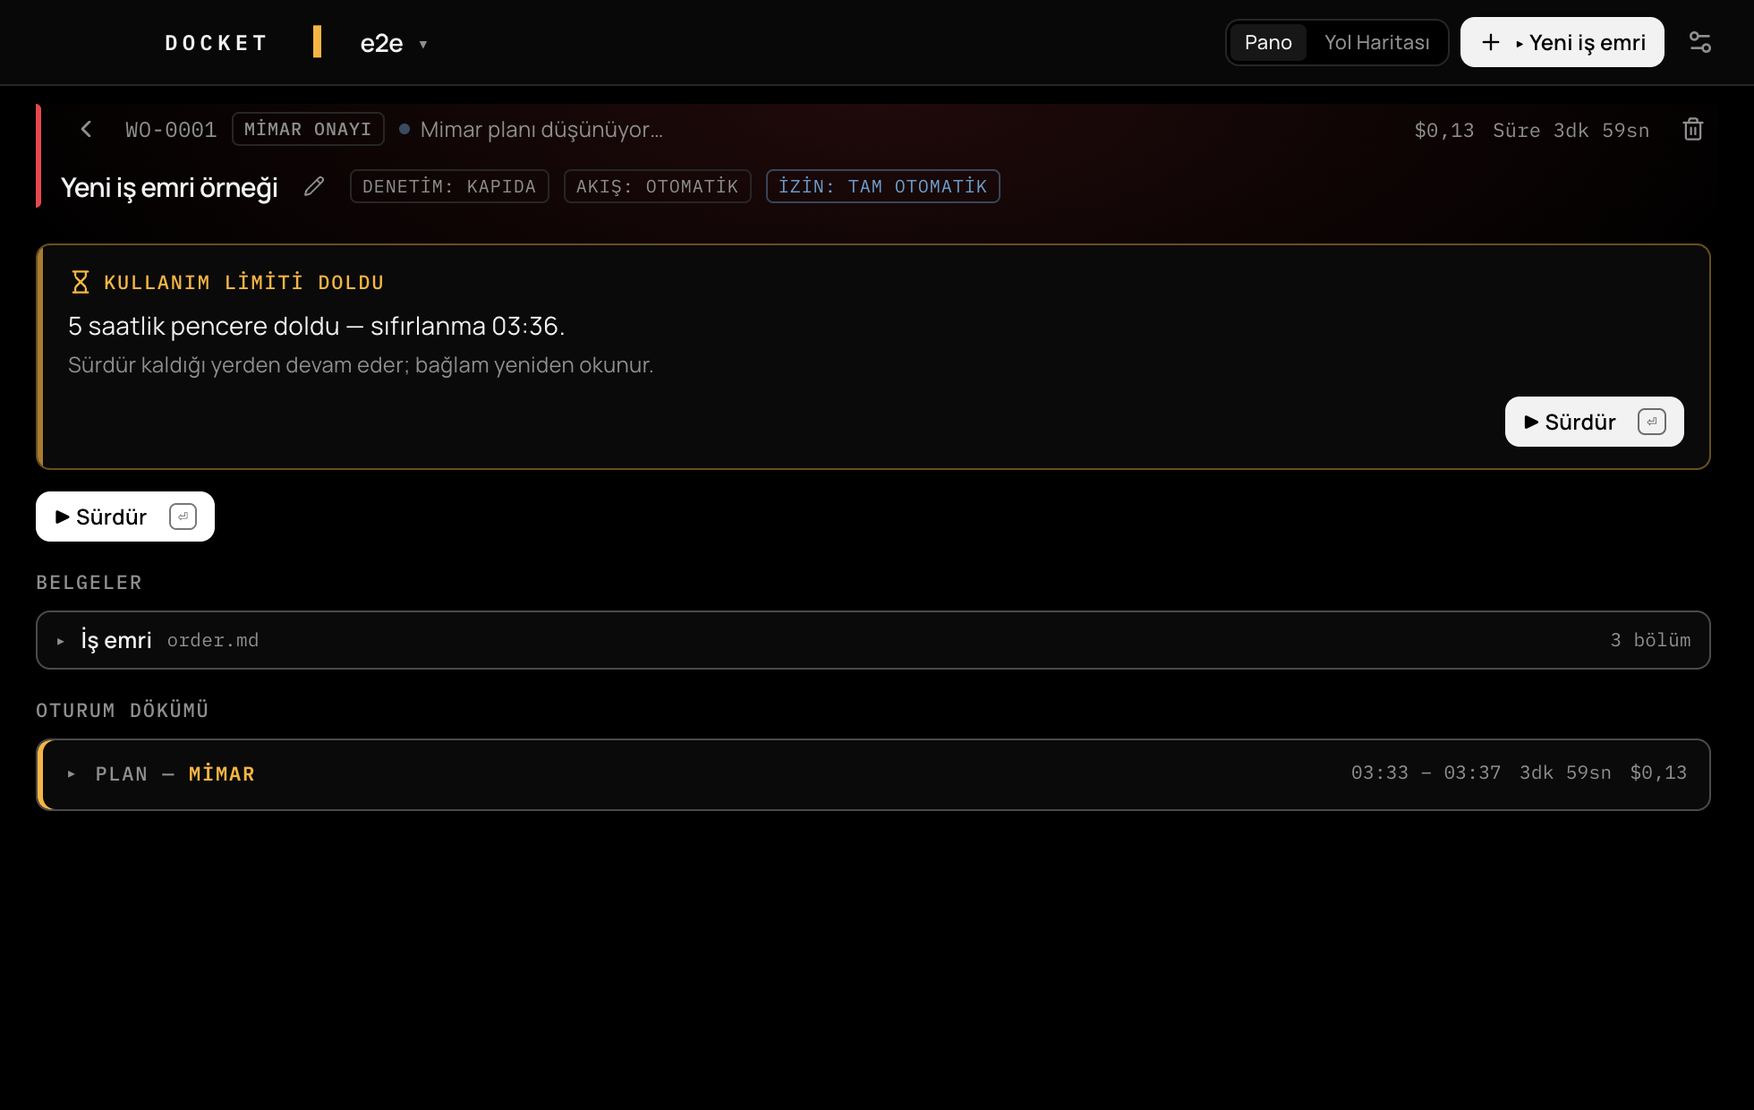
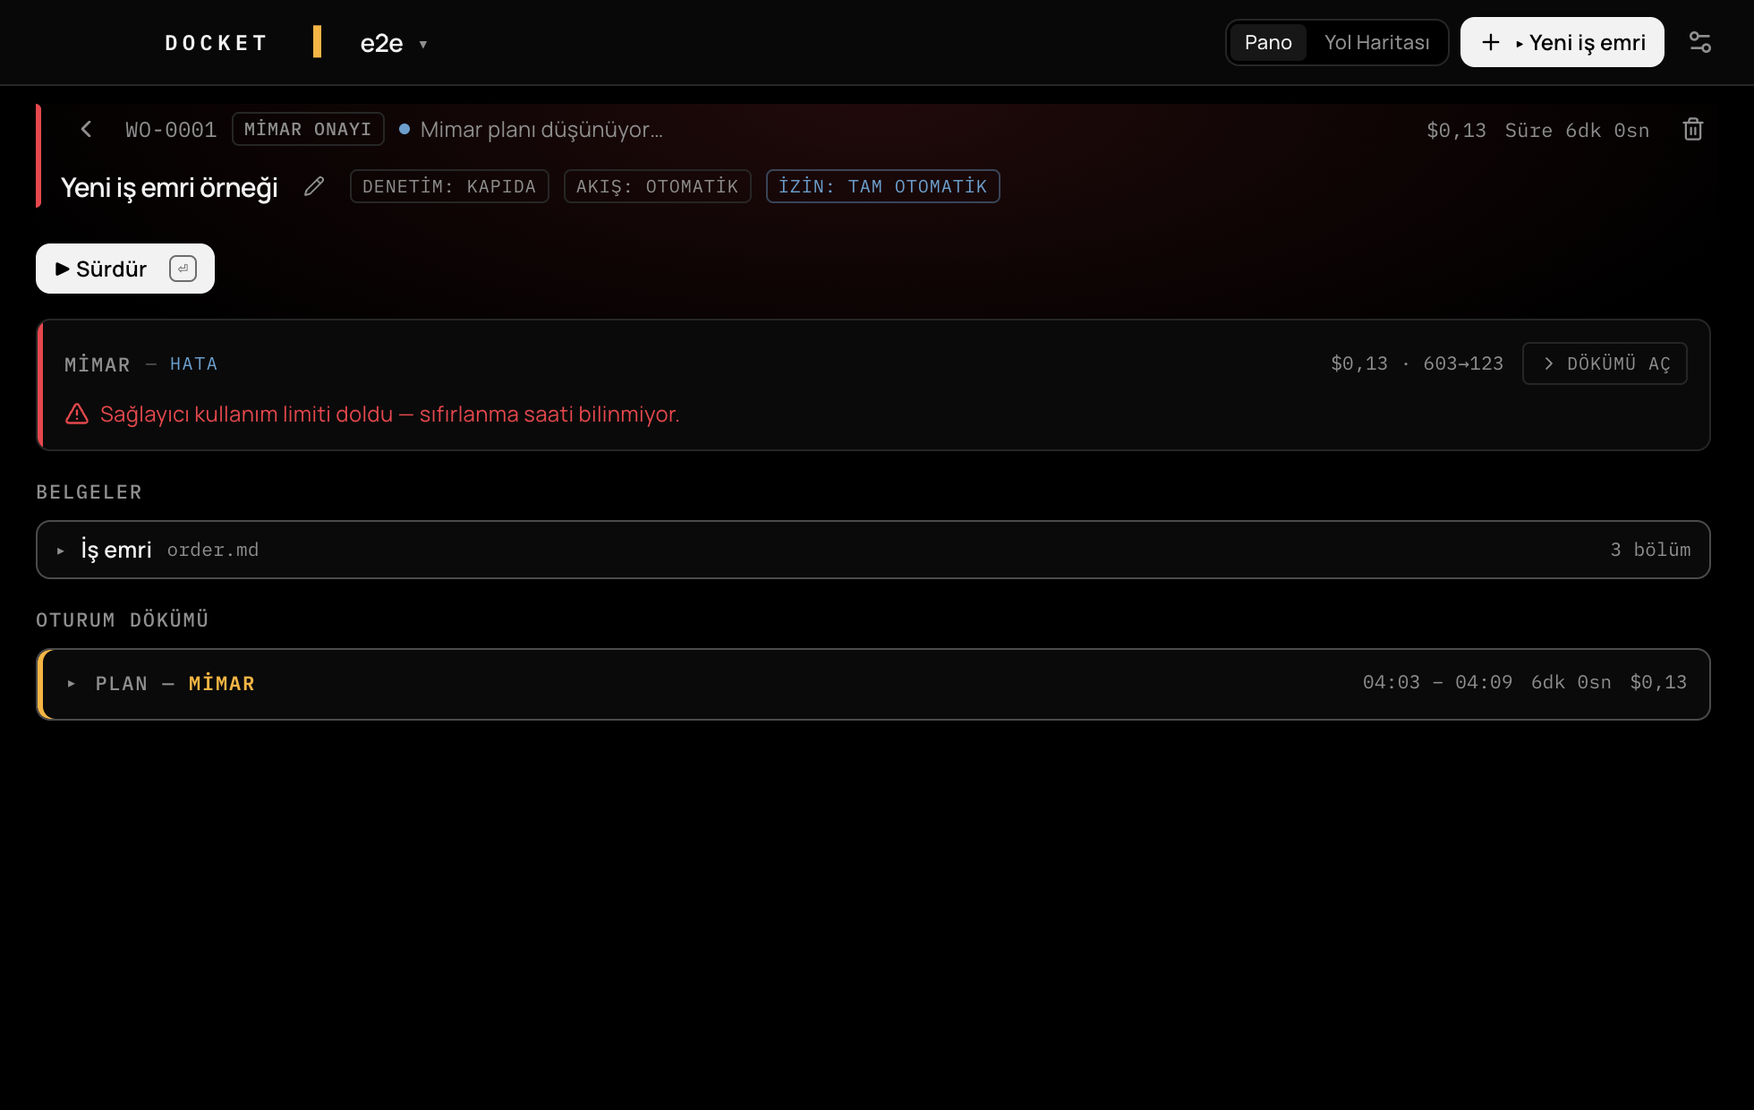
feat(WO-0053): operator round 2 — the card goes informative; the ONE Sürdür locks in its home
«kartta sürdür butonu olmasın — 2 tane buton oluyor»: the realized tour showed
the card's «Sürdür» beside the plan stage's lone «Sürdür» (the persisted
architect session's honest label). The revision: LimitCard loses its action
row entirely and renders only while the stamp is FUTURE (the crossing
unmounts it); the ONE «Sürdür» stays in its normal home, LOCKED while the
limit holds (the kit's attribute-free lock — ADR-0001's guarded-action
register; the card above carries the reason, no tooltip) with ⏎ held off;
the clock crossing unlocks it — kart gider, Sürdür düğmesi gelir. The board
card gains the standing line (limit_stopped in deriveCardReason — clock-free
by design, a clean leg clears the stamp and the reason reverts), the
round-2 ask for a surface outside the detail. The e2e family restructures
around the state machine (a future-stamped death genuinely blocks entry —
the design working as intended): spec 01 now WATCHES the live 9s tick cross
a short stamp (the real-time crossing, previously unpinned) and ends on the
stopped boundary; spec 03 ends its drive CLEAN (the running gate drops the
warn line + the clean leg clears the row) then pins the stamp-less degrade
tier's localized title; the draft seat mirrors the wait-only card (its
button-free form rides the draft's own re-drive paths). order.md rulings
carry the dated round-2 revision. 842 tests, ladder + E2E green.

diff --git a/src/ui/components/detail/WorkOrderDetail.tsx b/src/ui/components/detail/WorkOrderDetail.tsx
@@ -618,14 +618,21 @@ export function WorkOrderDetail({
   // DELIVERED its plan and is awaiting the operator — that is the approval moment, not work
   // (the SDK stream lingers waiting for an in-session approval Docket never gives).
   const planAwaitingOperator = planStage && state.status === 'plan_ready';
-  // WO-0053 (review findings 1-3): the limit surfaces branch on their OWN discriminators, never
-  // the derived turn — the primary real death is a RESULT message (error then turn_complete),
-  // which folds 'done', so a turn-gated card/⏎ would never fire on the real path. A stamped stop
-  // opens the LimitCard; a stamp-less one DEGRADES to the fail card's localized title (mockup
-  // frame 04). Neither renders over the operator's own Durdur (the seed boundary, mirrored live:
-  // `interrupted` folds 'stopped' and leaves the stamp in place).
+  // WO-0053 (review findings 1-3 + operator round 2, 2026-08-29): the limit surfaces branch on
+  // their OWN discriminators, never the derived turn — the primary real death is a RESULT message
+  // (error then turn_complete), which folds 'done', so a turn-gated card/⏎ would never fire on the
+  // real path. A stamped stop opens the INFORMATIVE LimitCard while the stamp is FUTURE only (the
+  // operator's round-2 ruling: the card carries NO button — the ONE Sürdür lives in its normal
+  // home beside it, locked while the limit holds; the clock crossing unmounts the card and
+  // unlocks the button — «kart gider, Sürdür düğmesi gelir»); a stamp-less one DEGRADES to the
+  // fail card's localized title (mockup frame 04). Neither renders over the operator's own Durdur
+  // (the seed boundary, mirrored live: `interrupted` folds 'stopped' and keeps the stamp).
   const limitCardOpen =
-    state.lastLimit !== undefined && !running && state.status !== 'stopped' && state.lastRefusal === undefined;
+    state.lastLimit !== undefined
+    && !running
+    && state.status !== 'stopped'
+    && state.lastRefusal === undefined
+    && limitCrossing(state.lastLimit.resetAt, now) === 'wait';
   const limitDegrade =
     state.lastErrorCode === 'rate_limited' && state.lastLimit === undefined && !running && state.status !== 'stopped' && state.lastRefusal === undefined;
   let primary: (() => void) | undefined;
@@ -642,14 +649,6 @@ export function WorkOrderDetail({
         primary = () => objectPlan(objectionText.trim());
         primaryKind = 'object';
       }
-    } else if (limitCardOpen && limitCrossing(state.lastLimit!.resetAt, now) === 'ready') {
-      // WO-0053 (review finding 1): the limit card's «Sürdür» owns ⏎ gated by the CARD's own
-      // condition, never the derived turn — the primary real death is a RESULT message (error then
-      // turn_complete), which folds 'done', not 'error': a turn-gated branch would strand the
-      // badge on a dead Enter. The same retry channel (the row-resume leg); a pending refusal
-      // outranks (the fresher intent — the raise card's input carries Enter).
-      primary = retry;
-      primaryKind = 'retry';
     } else if ((turn === 'retry' || limitDegrade) && !state.lastRefusal && state.lastLimit === undefined) {
       primary = retry; // ⏎ = Yeniden dene — the fail card's button (incl. the stamp-less degrade tier)
       primaryKind = 'retry';
@@ -676,10 +675,10 @@ export function WorkOrderDetail({
     } else if (stoppedNow) {
       primary = resumeStopped; // ⏎ = ▶ Sürdür — the stopped drive's OWN session (WO-0045 finding 2)
       primaryKind = 'resume';
-    } else if (planStage && !effectivePlan && !showQuestion) {
-      primary = requestPlan; // ⏎ = Plan iste (the decision row's lone button)
+    } else if (planStage && !effectivePlan && !showQuestion && !limitCardOpen) {
+      primary = requestPlan; // ⏎ = Plan iste / Sürdür (the decision row's lone button)
       primaryKind = 'request';
-    } else if (stepResumeId !== undefined) {
+    } else if (stepResumeId !== undefined && !limitCardOpen) {
       primary = resumeStep; // an interrupted 'active' step at restart
       primaryKind = 'resume';
     }
@@ -937,22 +936,12 @@ export function WorkOrderDetail({
       />
     ) : null;
 
-  // WO-0053 — the limit stop's ONE-ACTION card: the fold's `lastLimit` is the discriminator (the
-  // `lastRefusal` pattern). It renders only when the refusal card does NOT (a budget refusal is
-  // the fresher intent in the both-set case — a post-limit Sürdür that met the cap resolves the
-  // cap first; the limit state survives the fold and its card returns), and never over the
-  // operator's own stop (`limitCardOpen` above — finding 3's live mirror of the seed boundary).
-  // The button rides the FAIL CARD's retry channel: `drive-store.restart` is rejected for this
-  // (it re-issues the ORIGINAL input — a fresh session, wrong for a stopped live leg); retry
-  // finds the persisted row's providerSessionId and re-drives with `resume:`, the Sürdür
-  // mechanism verbatim.
+  // WO-0053 — the limit stop's INFORMATIVE card (round 2: no action row — the ONE Sürdür lives
+  // beside it, locked). It renders only when the refusal card does NOT (a budget refusal is the
+  // fresher intent in the both-set case), never over the operator's own stop, and only while the
+  // stamp is FUTURE (the crossing unmounts it — the Sürdür takes over alone).
   const limitCard = limitCardOpen && refusalCard === null ? (
-    <LimitCard
-      resetAt={state.lastLimit!.resetAt}
-      windowKind={state.lastLimit!.window}
-      now={now}
-      onResume={retry}
-    />
+    <LimitCard resetAt={state.lastLimit!.resetAt} windowKind={state.lastLimit!.window} />
   ) : null;
   const limitOpen = limitCard !== null;
 
@@ -1061,9 +1050,13 @@ export function WorkOrderDetail({
                 {planHint ? <p className="min-w-0 flex-1 truncate text-[12px] text-inkdim">{planHint}</p> : null}
               </>
             ) : (
-              <Button variant="primary" size="sm" className="min-w-[92px]" onClick={requestPlan}>
+              // WO-0053 operator round 2: while the limit holds, the ONE Sürdür renders in place,
+              // LOCKED (the kit's attribute-free lock — ADR-0001's guarded-action register; the
+              // limit card right above carries the reason, no tooltip needed) and holds the ⏎
+              // badge off. The clock crossing unmounts the card and unlocks this button.
+              <Button variant="primary" size="sm" className="min-w-[92px]" locked={limitCardOpen} onClick={requestPlan}>
                 {planResumeId ? UI.driveResume : UI.requestPlan}
-                <EnterMark />
+                {limitCardOpen ? null : <EnterMark />}
               </Button>
             )}
           </div>

diff --git a/src/ui/components/detail/LimitCard.tsx b/src/ui/components/detail/LimitCard.tsx
@@ -1,38 +1,17 @@
-// LimitCard (WO-0053) — the usage-limit stop's ONE-ACTION resolution, the BudgetRefusalCard's
-// sibling grammar (lamp-edged card, readout title, body, right-aligned action row) with the
-// refusal's two choices reduced to ONE: there is nothing to decide — the window either has not
-// opened (the Sürdür is ABSENT with the clock as its standing reason line, ADR-0001) or it has
-// (exactly one primary «Sürdür», ⏎'s target — the fail card's retry precedent, regularized by
-// ADR-0013's WO-0053 addendum). The card speaks PROVIDER windows only — no $ figures, no cap
-// copy (the budget card owns those, WO-0047); the body names the window (through the label
-// bundle — a raw kind string never reaches JSX, ADR-0007) and its reset clock (day-aware: a
-// seven-day window outlives today). The stamp came from the adapter's neutralization (the
-// ISO epoch→string conversion is the adapter's job, not the UI's); the crossing is core's pure
-// `limitCrossing` with the caller's `now` — the card, its tests and the e2e share one truth,
-// never a wall-clock wait.
+// LimitCard (WO-0053) — the usage-limit stop's INFORMATIVE card, the BudgetRefusalCard's sibling
+// grammar (lamp-edged card, readout title, body) with NO action row at all (operator round 2,
+// 2026-08-29: the card explains the state — «karttan zaten durumu anlarız»; the ONE Sürdür lives
+// in its normal home beside it, locked while the limit holds, active once the clock passes and
+// this card is GONE — one button, never two). The card renders ONLY while the stamp is future —
+// the parent gates the crossing (core's limitCrossing); the body names the window (through the
+// label bundle — a raw kind string never reaches JSX, ADR-0007) and its reset clock (day-aware:
+// a seven-day window outlives today). The provider windows only — no $ figures, no cap copy
+// (the budget card owns those, WO-0047).
 import { Hourglass } from 'lucide-react';
-import { limitCrossing } from '../../../core/runner';
 import { useLabels } from '../../data/locale';
-import { Button } from '../../kit';
-import { EnterMark } from '../EnterMark';
 
-export function LimitCard({
-  resetAt,
-  windowKind,
-  now,
-  onResume,
-}: {
-  resetAt: string;
-  /** The provider's window kind string (`five_hour`…) — DATA; display maps through the bundle. */
-  windowKind?: string;
-  /** The caller's clock (the pane/console ticker) — the crossing re-renders when it ticks. */
-  now: number;
-  /** The one action: re-drive the same leg from the persisted row (the retry channel). */
-  onResume: () => void;
-}) {
+export function LimitCard({ resetAt, windowKind }: { resetAt: string; windowKind?: string }) {
   const { UI } = useLabels();
-  const time = UI.limitClock(resetAt);
-  const ready = limitCrossing(resetAt, now) === 'ready';
   return (
     <div data-limit-card="" className="flex items-stretch overflow-hidden rounded-md border border-signal/40 bg-surface shadow-sm">
       <div className="lamp lamp-signal-breathe" />
@@ -41,19 +20,9 @@ export function LimitCard({
           <Hourglass className="h-3.5 w-3.5" aria-hidden="true" />
           {UI.limitCardTitle}
         </p>
-        <p className="mt-1.5 text-sm text-ink">{UI.limitCardBody(UI.limitWindowLabel(windowKind ?? ''), time)}</p>
+        <p className="mt-1.5 text-sm text-ink">{UI.limitCardBody(UI.limitWindowLabel(windowKind ?? ''), UI.limitClock(resetAt))}</p>
         {/* The S4 honesty line (token tour): a Sürdür re-reads the context server-side — no silent surprise. */}
         <p className="mt-1 text-xs text-inkdim">{UI.limitResumeNote}</p>
-        <div className="mt-2.5 flex flex-wrap justify-end gap-2">
-          {ready ? (
-            <Button variant="primary" size="sm" data-limit-resume="" onClick={onResume}>
-              {UI.driveResume}
-              <EnterMark />
-            </Button>
-          ) : (
-            <span className="text-xs text-inkdim">{UI.limitWaitReason(time)}</span>
-          )}
-        </div>
       </div>
     </div>
   );

diff --git a/src/ui/screens/RoadmapScreen.tsx b/src/ui/screens/RoadmapScreen.tsx
@@ -186,26 +186,17 @@ export function RoadmapScreen({
       />
     ) : null;
 
-  // WO-0053 — the draft seat's limit card (the second of the refusal card's two seats). The
-  // Sürdür is the `reply()` twin: `driveStore.start` with the draft input + `resume` and an EMPTY
-  // prompt (no new message — the provider replays and continues), NOT `restart` (which re-issues
-  // the original input as a FRESH session — the wrong leg for a stopped live drive).
-  const resumeDraft = (): void => {
-    if (!draftState.sessionId) return;
-    driveStore.start(
-      draftKey,
-      { role: 'architect', workspaceId: workspace.id, mode: 'plan', prompt: '', goalNote: '', docPaths: [], resume: draftState.sessionId },
-      draftState,
-    );
-  };
+  // WO-0053 — the draft seat's limit card (the second of the refusal card's two seats):
+  // informative, WAIT-state only (operator round 2 — no action row; the crossing unmounts it and
+  // the draft's own re-drive paths serve). Never over the operator's own stop, never beside an
+  // open refusal card.
   const limitCard =
-    draftState.lastLimit !== undefined && !draftRunning && draftState.status !== 'stopped' && refusalCard === null ? (
-      <LimitCard
-        resetAt={draftState.lastLimit.resetAt}
-        windowKind={draftState.lastLimit.window}
-        now={now}
-        onResume={resumeDraft}
-      />
+    draftState.lastLimit !== undefined
+    && !draftRunning
+    && draftState.status !== 'stopped'
+    && refusalCard === null
+    && limitCrossing(draftState.lastLimit.resetAt, now) === 'wait' ? (
+      <LimitCard resetAt={draftState.lastLimit.resetAt} windowKind={draftState.lastLimit.window} />
     ) : null;
 
   // The live half mounts when THIS renderer has a fold for the draft (a running or ended drive

diff --git a/src/ui/data/labels/tr.ts b/src/ui/data/labels/tr.ts
@@ -106,6 +106,9 @@ export function cardReasonText(r: CardReason): string {
       return UI.cardJustWritten;
     case 'session_stopped':
       return 'Oturum durduruldu';
+    case 'limit_stopped':
+      // WO-0053: pano kartının satırı — neden + saat, saat-sız (çekirdek türetmesi Date bilmez).
+      return `Kullanım limiti doldu — sıfırlanma ${UI.limitClock(r.resetAt)}`;
     case 'awaiting_plan_commit':
       // WO-0039: the board reads the SAME value as the detail's ActionCard — the "Plan commiti
       // bekleniyor" twin is dead (one state, one sentence; "commit" never reaches the operator).
@@ -752,7 +755,6 @@ export const UI = {
   limitCardTitle: 'KULLANIM LİMİTİ DOLDU',
   limitCardBody: (window: string, time: string) => `${window} doldu — sıfırlanma ${time}.`,
   limitResumeNote: 'Sürdür kaldığı yerden devam eder; bağlam yeniden okunur.',
-  limitWaitReason: (time: string) => `sürdür ${time}'de açılır`,
   limitWarnLine: (window: string, pct: number | null, time: string | null) =>
     `${window}${pct !== null ? ` %${pct}` : ''}${time !== null ? ` — ${time}'de sıfırlanır` : ' — sınır yakın'}`,
   limitWindowLabel: (kind: string): string => (kind === 'five_hour' ? '5 saatlik pencere' : kind === 'seven_day' ? '7 günlük pencere' : 'pencere'),

diff --git a/src/ui/data/labels/en.ts b/src/ui/data/labels/en.ts
@@ -103,6 +103,9 @@ export function cardReasonText(r: CardReason): string {
       return UI.cardJustWritten;
     case 'session_stopped':
       return 'Session stopped';
+    case 'limit_stopped':
+      // WO-0053: the board card's line — the reason + the clock, clock-free (core derives no Date).
+      return `Usage limit reached — resets ${UI.limitClock(r.resetAt)}`;
     case 'awaiting_plan_commit':
       // WO-0039: the board reads the SAME value as the detail's ActionCard — the "Awaiting plan
       // commit" twin is dead (one state, one sentence; "commit" never reaches the operator).
@@ -641,7 +644,6 @@ export const UI = {
   limitCardTitle: 'USAGE LIMIT REACHED',
   limitCardBody: (window: string, time: string) => `${window} is full — resets ${time}.`,
   limitResumeNote: 'Resume continues from where it stopped; the context is re-read.',
-  limitWaitReason: (time: string) => `resume opens at ${time}`,
   limitWarnLine: (window: string, pct: number | null, time: string | null) =>
     `${window}${pct !== null ? ` ${pct}%` : ''}${time !== null ? ` — resets at ${time}` : ' — near the limit'}`,
   limitWindowLabel: (kind: string): string => (kind === 'five_hour' ? '5-hour window' : kind === 'seven_day' ? '7-day window' : 'window'),

diff --git a/src/core/derive.ts b/src/core/derive.ts
@@ -228,6 +228,13 @@ export function deriveCardReason(wo: WorkOrder): CardReason {
   // "Plan onayı bekleniyor" over a plan that does not exist.
   if (wo.sessions.some((s) => s.status === 'stopped')) return { kind: 'session_stopped' };
 
+  // WO-0053: a session died on the provider's usage limit — the WO waits on the provider's clock,
+  // not on a gate. Sits AFTER session_stopped (a later Durdur outranks — the seed boundary's rule)
+  // and BEFORE the gates. Clock-free: the line states the stop + the reset time as fact; a later
+  // clean leg clears the stamp and this reason reverts on its own.
+  const limited = wo.sessions.find((s) => s.limitResetAt !== undefined);
+  if (limited?.limitResetAt !== undefined) return { kind: 'limit_stopped', resetAt: limited.limitResetAt };
+
   const unsat = unsatisfiedGateKinds(wo);
   if (unsat.includes('plan_approval')) return { kind: 'awaiting_plan_commit' };
   if (unsat.includes('closure')) return { kind: 'docs_not_updated' };

diff --git a/src/core/types.ts b/src/core/types.ts
@@ -371,6 +371,10 @@ export type CardReason =
   | { kind: 'in_progress' }
   | { kind: 'just_written' }
   | { kind: 'session_stopped' } // 2026-08-24: the operator stopped a drive — it resumes, it did not end
+  // WO-0053: a session died on the provider's usage limit — the WO waits on the provider's clock
+  // (the board line names it; clock-free by design — the reason states the stop + reset time, and
+  // a later clean leg clears the stamp so the reason reverts).
+  | { kind: 'limit_stopped'; resetAt: string }
   | { kind: 'awaiting_plan_commit' }
   | { kind: 'docs_not_updated' }
   | { kind: 'awaiting_next_session' };

diff --git a/docs/work-orders/WO-0053-limit-ekrani/order.md b/docs/work-orders/WO-0053-limit-ekrani/order.md
@@ -68,19 +68,24 @@ budget gate (WO-0047) stays separate; resume mechanics are untouched; the usage 
   the SDK method name appears only in Adapter-layer bullets and docs' factual references. The
   stamp is normalized at the boundary: the push channel's epoch `resetsAt` becomes an ISO string
   IN THE ADAPTER — that conversion is this WO's reason to exist.
-- **Mockup rulings (locked with the operator 2026-08-29, rev 1 `cf28681`).** (1) The card
-  speaks PROVIDER windows — no $ figures, no cap copy; the budget card owns those, and the two
-  cards never compete (a budget refusal is pre-spawn, a limit stop is post-flight; the refusal
-  still outranks in the stack — the fresher intent, the fail card's existing `!lastRefusal`
-  guard extended one branch). (2) The button is ABSENT until the reset moment passes; the
-  standing reason line IS the reset time (ADR-0001); present after, with ⏎. (3) The warning line
-  renders only on the provider's OWN warning/blocked signal — never a locally invented threshold
-  (the WO-0046 honest-absent lineage). (4) A limit stop with no known stamp degrades to the fail
-  card with a localized title — never a fabricated time, never a gated button without a reason.
-  (5) The card owns the moment: no instrument renders while it holds (the refusal-card rule,
-  WorkOrderDetail.tsx:1200-1201 — the Oturum card's döküm remains the transcript's home); the
-  card-local «Sürdür» is the fail-card retry precedent, regularized by the ADR-0013 addendum
-  below — DriveControls stays the LIVE drive's process home.
+- **Mockup rulings (locked with the operator 2026-08-29, rev 1 `cf28681`; REVISED at round 2,
+  same day — the realized-app tour).** (1) The card speaks PROVIDER windows — no $ figures, no
+  cap copy; the budget card owns those, and the two cards never compete (a budget refusal is
+  pre-spawn, a limit stop is post-flight; the refusal still outranks in the stack — the fresher
+  intent, the fail card's existing `!lastRefusal` guard extended one branch). (2) **Round-2
+  revision («kartta sürdür butonu olmasın — 2 tane buton oluyor»):** the card is INFORMATIVE
+  and renders only while the stamp is FUTURE — NO action row. The ONE «Sürdür» stays in its
+  normal home (the lone plan button / the step spine's controls), rendered LOCKED while the
+  limit holds (the kit's attribute-free lock — ADR-0001's guarded-action register; the card
+  right above carries the reason, so no tooltip), ⏎ held off; the clock crossing unmounts the
+  card and unlocks the button («kart gider, Sürdür düğmesi gelir»). The board card carries the
+  standing line too — `limit_stopped` in `deriveCardReason`: «Kullanım limiti doldu —
+  sıfırlanma <saat>», clock-free (a later clean leg clears the stamp and the reason reverts).
+  (3) The warning line renders only on the provider's OWN warning/blocked signal — never a
+  locally invented threshold (the WO-0046 honest-absent lineage). (4) A limit stop with no known
+  stamp degrades to the fail card with a localized title — never a fabricated time. (5) While
+  the card holds it owns the moment: no instrument renders (the refusal-card rule; the Oturum
+  card's döküm remains the transcript's home).
 
 ## Scope
 
